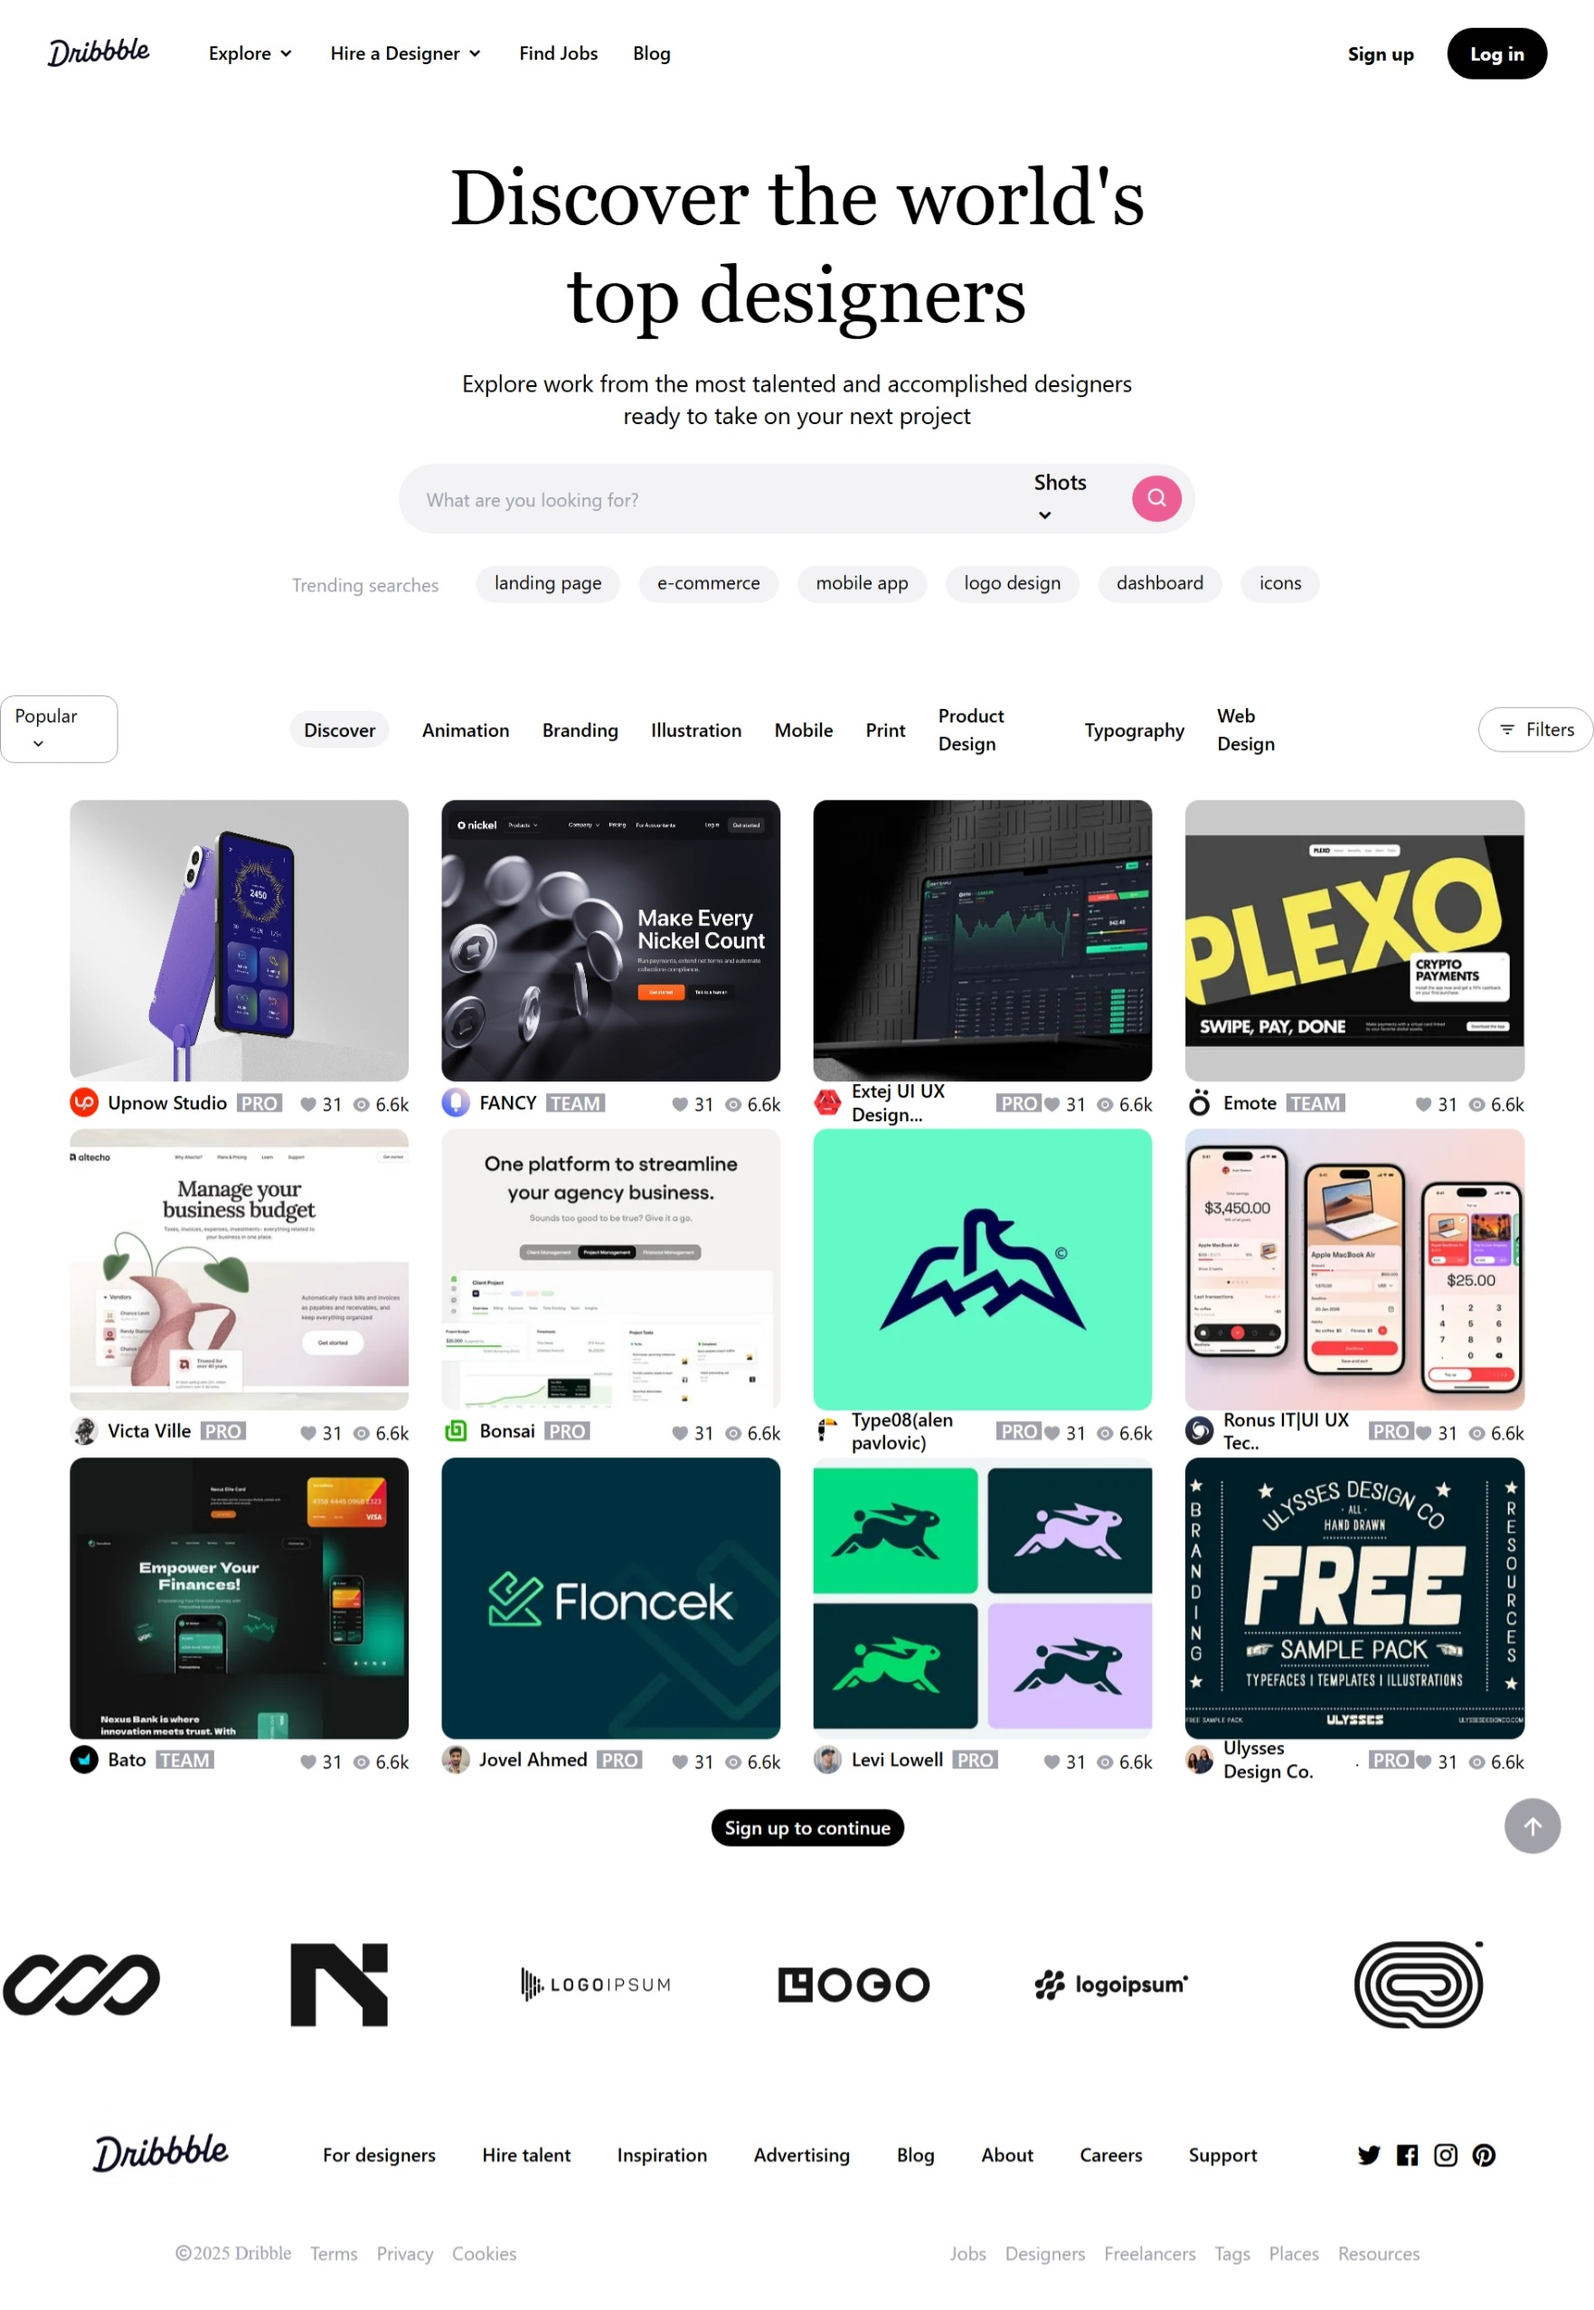
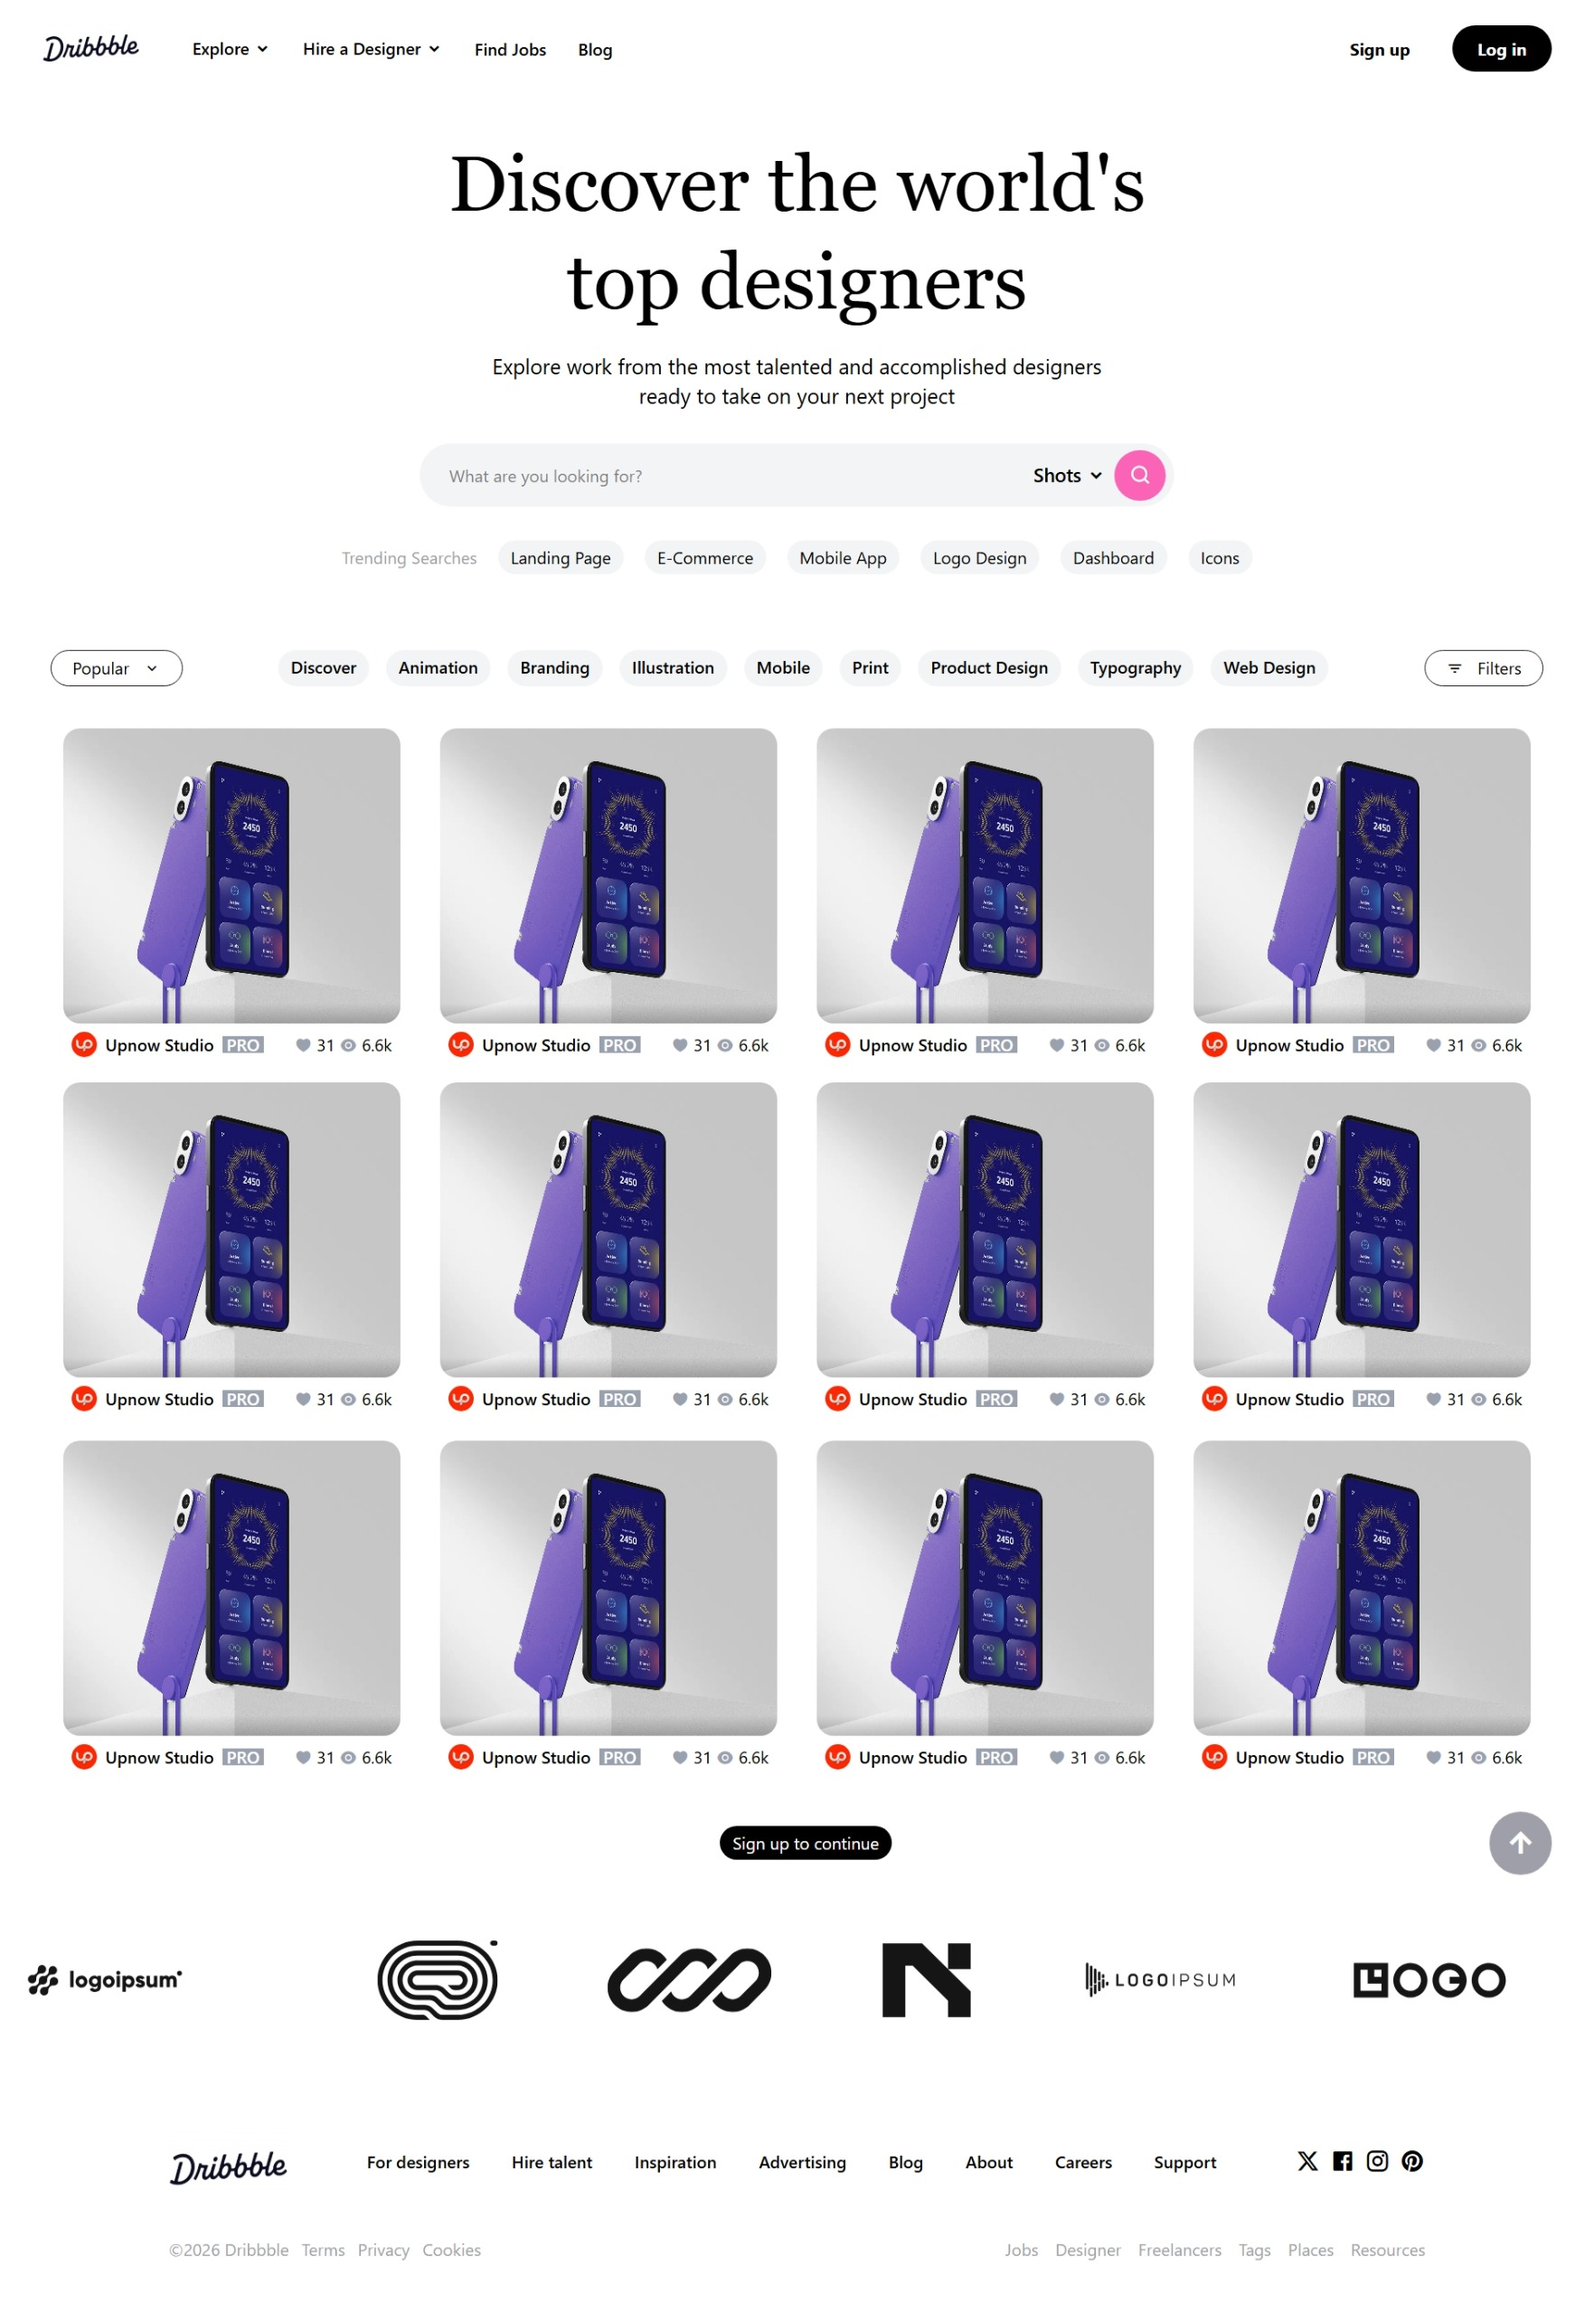
A5 readme

diff --git a/A5/MEDIUM/README.md b/A5/MEDIUM/README.md
@@ -1,0 +1,53 @@
+# Assignment 5 - Medium
+
+This project is a frontend recreation of a Dribbble-style landing page built with HTML, CSS, and Tailwind utility classes.
+
+Live Demo: https://a5-medium1.netlify.app/
+
+## Preview
+
+![Assignment 5 Preview](./task-A5.jpeg)
+
+## Overview
+
+The page includes a navigation bar, hero section, search bar, trending tags, category filters, a repeated design-card gallery, a scrolling brand logo strip, and a footer.
+
+## Features
+
+- Clean landing page inspired by Dribbble
+- Search bar with category selector
+- Trending search tags
+- Filter and category chips
+- Hover overlay on design cards
+- Infinite marquee-style client logo section
+- Footer with navigation and social icons
+
+## Tech Stack
+
+- HTML5
+- CSS3
+- Tailwind CSS via CDN
+- Remix Icon
+
+## Project Structure
+
+```text
+MEDIUM/
+|-- index.html
+|-- README.md
+|-- style.css
+|-- task-A5.jpeg
+`-- Assets/
+    `-- android-chrome-192x192.png
+```
+
+## Run Locally
+
+1. Open the `Assignments/A5/MEDIUM` folder.
+2. Launch `index.html` in your browser.
+
+## Notes
+
+- The layout uses Tailwind utility classes directly inside `index.html`.
+- The marquee animation is defined in `style.css`.
+- Several images are loaded from external URLs.
